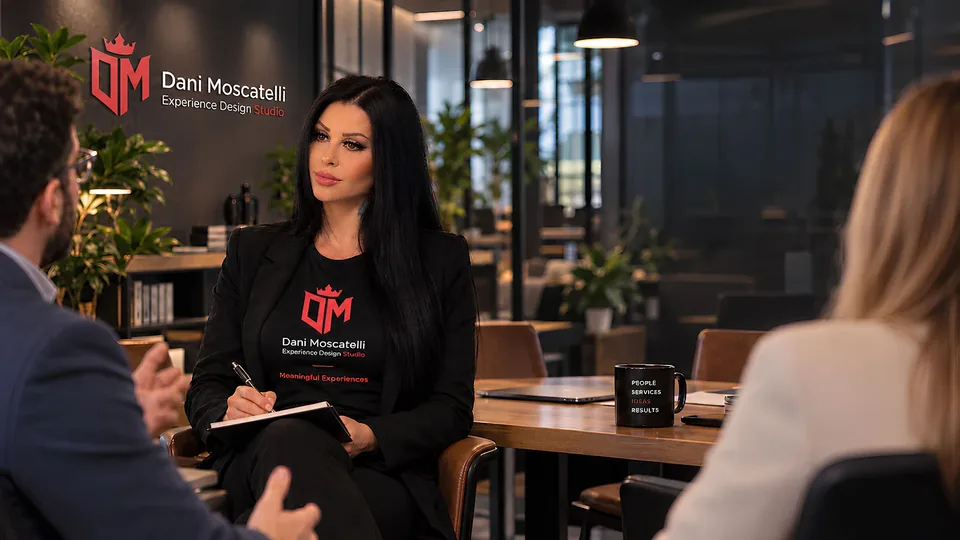
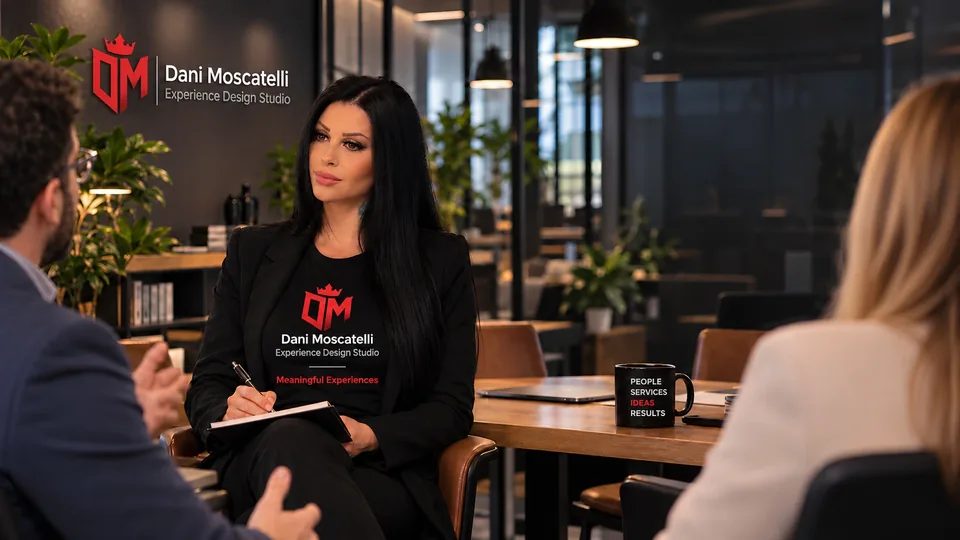
Projeto Piloto: nova foto do hero em tom azulado, botão flutuante de cadastro e Contato em contorno (#87)
Claude-Session: https://claude.ai/code/session_01XRPixHnGB2MQpUnvzRpAUm

diff --git a/projeto-piloto/index.html b/projeto-piloto/index.html
@@ -29,7 +29,7 @@
 
 <main id="conteudo">
 <section class="hero-piloto relative flex items-center pt-8 lg:pt-6 pb-[104px] overflow-hidden" id="hero" aria-labelledby="hero-titulo">
-  <div class="absolute inset-0 -z-10 overflow-hidden bg-slate-900" id="hero-fundo"><img alt="Dani Moscatelli em reunião com clientes no escritório do Dani Moscatelli Experience Design Studio" class="w-full h-full object-cover object-[35%_center] lg:object-[28%_center]" src="/projeto-piloto-hero.webp" srcset="/projeto-piloto-hero-960.webp 960w, /projeto-piloto-hero.webp 1600w" sizes="100vw" width="1600" height="900" fetchpriority="high"><div aria-hidden="true" class="absolute inset-0 bg-black/40"></div></div>
+  <div class="absolute inset-0 -z-10 overflow-hidden bg-[#131A27]" id="hero-fundo"><img alt="Dani Moscatelli em reunião com clientes no escritório do Dani Moscatelli Experience Design Studio" class="opacity-40 w-full h-full object-cover object-[35%_center] lg:object-[28%_center]" src="/projeto-piloto-hero.webp" srcset="/projeto-piloto-hero-960.webp 960w, /projeto-piloto-hero.webp 1600w" sizes="100vw" width="1600" height="900" fetchpriority="high"></div>
   <div class="w-full max-w-7xl mx-auto px-4 sm:px-6 lg:px-8 py-4 lg:py-0 relative z-10 flex justify-end items-center">
     <div class="hero-card w-full bg-white/95 backdrop-blur-md rounded-3xl p-8 sm:py-12 sm:px-9 shadow-2xl border border-white/60 text-left flex flex-col items-start justify-center min-h-[580px] max-w-[528px]">
       <p class="inline-flex items-center gap-2 px-3.5 py-1.5 rounded-full bg-coral-50 border border-coral-100 text-coral-600 text-xs font-semibold tracking-wide mb-4"><span aria-hidden="true" class="w-2 h-2 rounded-full bg-coral-600 motion-safe:animate-pulse"></span>PROGRAMA CONTÍNUO</p>
@@ -551,6 +551,7 @@
     </div>
   </div>
 </footer>
+<a href="#inscricao" id="cta-flutuante" aria-hidden="true" tabindex="-1" class="cta-flutuante fixed z-[44] inline-flex items-center justify-center gap-2 h-12 px-5 rounded-full text-sm font-semibold text-white bg-coral-600 hover:bg-coral-700 shadow-lg shadow-black/20 whitespace-nowrap focus-visible:outline-none focus-visible:ring-4 focus-visible:ring-coral-200"><svg aria-hidden="true" class="w-5 h-5" fill="none" stroke="currentColor" stroke-linecap="round" stroke-linejoin="round" stroke-width="2" viewBox="0 0 24 24"><path d="M3 21h18"></path><path d="M5 21V5a2 2 0 0 1 2-2h10a2 2 0 0 1 2 2v16"></path><path d="M9 9h1"></path><path d="M9 13h1"></path><path d="M9 17h1"></path><path d="M14 9h1"></path><path d="M14 13h1"></path><path d="M14 17h1"></path></svg><span>Cadastrar <span class="max-[359px]:hidden">minha </span>empresa</span></a>
 <!-- @gaveta -->
 </body>
 </html>

diff --git a/src/projeto-piloto.css b/src/projeto-piloto.css
@@ -211,7 +211,7 @@ main section h2 { font-size: 1.75rem; font-weight: 700; letter-spacing: -0.015em
 .lado-troca + .lado-troca p.text-slate-500 { color: #495669; }
 
 /* Rótulos (selos e eyebrows) */
-main .rv-cabecalho > p:first-child, #hero p:first-of-type { font-size: 0.75rem; font-weight: 600; letter-spacing: 0.08em; }
+main .rv-cabecalho > p:first-child, .hero-card > p:first-child { font-size: 0.75rem; font-weight: 600; letter-spacing: 0.08em; }
 
 /* Vermelho com contraste AA sobre fundo claro */
 main .text-coral-600:not(.secao-escura *), #hero .text-coral-600 { color: #B82828; }
@@ -242,3 +242,12 @@ main section h2 .text-coral-600, main section h2 span.text-coral-600 { color: #D
 /* Ícones e tags dos cards aparecem quase juntos (cascata curta) */
 .anima-pronto .rv-grupo.visivel .frente-icone { animation-delay: calc(var(--i, 0) * .03s + .1s); }
 .anima-pronto .rv-grupo.visivel .tag-frente { animation-delay: calc(var(--i, 0) * .03s + .2s + var(--t, 0) * .04s); }
+
+
+/* Botão flutuante "Cadastrar minha empresa": ao lado do WhatsApp depois que o hero sai da tela; some no formulário */
+.cta-flutuante { right: 88px; bottom: 24px; opacity: 0; transform: translateY(16px); pointer-events: none; transition: opacity .3s ease, transform .4s cubic-bezier(0.16, 1, 0.3, 1); }
+.cta-flutuante.visivel { opacity: 1; transform: none; pointer-events: auto; }
+@media (min-width: 640px) { .cta-flutuante { right: 96px; bottom: 28px; } }
+@media (prefers-reduced-motion: reduce) { .cta-flutuante { transition: none; } }
+/* Celular: o botão ocupa toda a largura livre, da margem esquerda até o WhatsApp */
+@media (max-width: 639px) { .cta-flutuante { left: 20px; right: 88px; } }

diff --git a/src/compartilhado/partes.ts b/src/compartilhado/partes.ts
@@ -48,7 +48,7 @@ export function cabecalhoHtml(pagina: Pagina): string {
     ${links}
   </nav>
   <div class="relative hidden md:block">
-  <button type="button" data-open-contact${pagina === 'inicio' ? ' aria-describedby="cta-contato-texto"' : ''} class="inline-flex items-center justify-center px-4 sm:px-6 py-2.5 rounded-full bg-[#B82828] hover:bg-[#8C1B1B] text-white text-sm font-semibold shadow-sm hover:shadow-md transition-all duration-200 hover:-translate-y-0.5 active:scale-[0.98] cursor-pointer">Contato</button>${pagina === 'inicio' ? AVISO : ''}
+  <button type="button" data-open-contact${pagina === 'inicio' ? ' aria-describedby="cta-contato-texto"' : ''} class="btn-contato inline-flex items-center justify-center px-4 sm:px-6 py-2.5 rounded-full border text-sm font-semibold transition-all duration-200 hover:-translate-y-0.5 active:scale-[0.98] cursor-pointer">Contato</button>${pagina === 'inicio' ? AVISO : ''}
   </div>
   <button type="button" id="menu-botao" aria-expanded="false" aria-controls="menu-mobile" aria-label="Abrir menu" class="md:hidden -mr-1 w-11 h-11 flex items-center justify-center rounded-full text-ds-fg hover:bg-ds-muted transition-colors cursor-pointer focus-visible:outline-none focus-visible:ring-4 focus-visible:ring-ds-ring">
     <svg aria-hidden="true" viewBox="0 0 24 24" class="w-6 h-6" fill="none" stroke="currentColor" stroke-width="2" stroke-linecap="round"><path data-menu="aberto" d="M4 7h16M4 12h16M4 17h16"/><path data-menu="fechado" class="hidden" d="M18 6 6 18M6 6l12 12"/></svg>

diff --git a/src/projeto-piloto.ts b/src/projeto-piloto.ts
@@ -232,3 +232,20 @@ form.addEventListener('change', (e) => {
     });
   });
 })();
+
+/* ---------- Botão flutuante "Cadastrar minha empresa" ---------- */
+(() => {
+  const btn = document.getElementById('cta-flutuante');
+  const hero = document.getElementById('hero');
+  const form = document.getElementById('inscricao');
+  if (!btn || !hero || !form || !('IntersectionObserver' in window)) return;
+  let heroVisivel = true, formVisivel = false;
+  const atualizar = () => {
+    const mostrar = !heroVisivel && !formVisivel;
+    btn.classList.toggle('visivel', mostrar);
+    btn.setAttribute('aria-hidden', String(!mostrar));
+    btn.tabIndex = mostrar ? 0 : -1;
+  };
+  new IntersectionObserver(([e]) => { heroVisivel = e.isIntersecting; atualizar(); }, { threshold: 0.15 }).observe(hero);
+  new IntersectionObserver(([e]) => { formVisivel = e.isIntersecting; atualizar(); }, { threshold: 0.1 }).observe(form);
+})();

diff --git a/src/compartilhado/menu.css b/src/compartilhado/menu.css
@@ -95,3 +95,11 @@ select.field option { color: var(--color-ds-fg); }
 }
 #contact-drawer .biz-label { font-size: 13px; }
 #contact-drawer, #menu-mobile { font-family: var(--font-sans); }
+
+/* Botão Contato do cabeçalho: contorno (outline). Branco sobre fundo escuro (cabeçalho rolado e sobre a foto do hero);
+   grafite sobre fundo claro, onde o branco não apareceria. */
+.btn-contato { background: transparent; border-color: #131A27; color: #131A27; }
+.btn-contato:hover { background: #131A27; color: #fff; }
+.site-header.is-scrolled .btn-contato, .cabecalho-sobre-hero .site-header:not(.is-scrolled) .btn-contato { border-color: rgb(255 255 255 / .85); color: #fff; }
+.site-header.is-scrolled .btn-contato:hover, .cabecalho-sobre-hero .site-header:not(.is-scrolled) .btn-contato:hover { background: #fff; color: #131A27; }
+.btn-contato:focus-visible { outline: none; box-shadow: 0 0 0 4px rgba(212, 77, 77, 0.4); }
